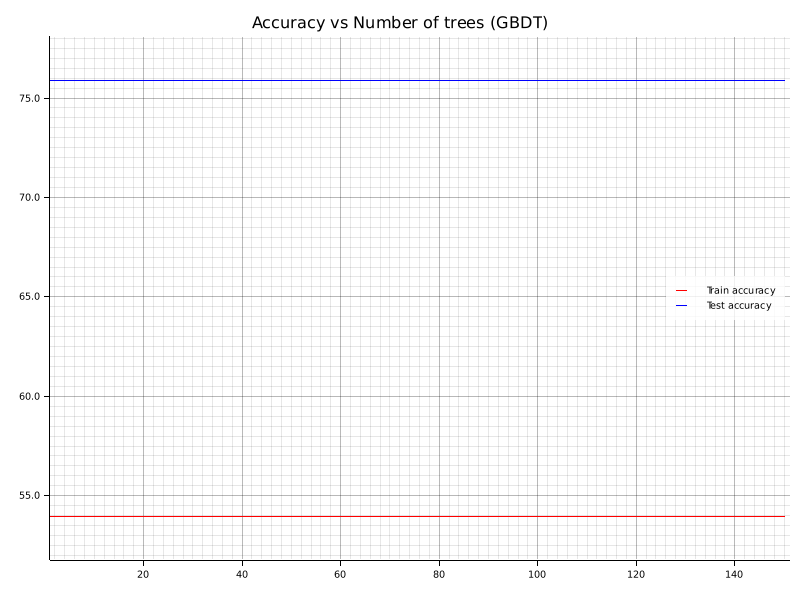
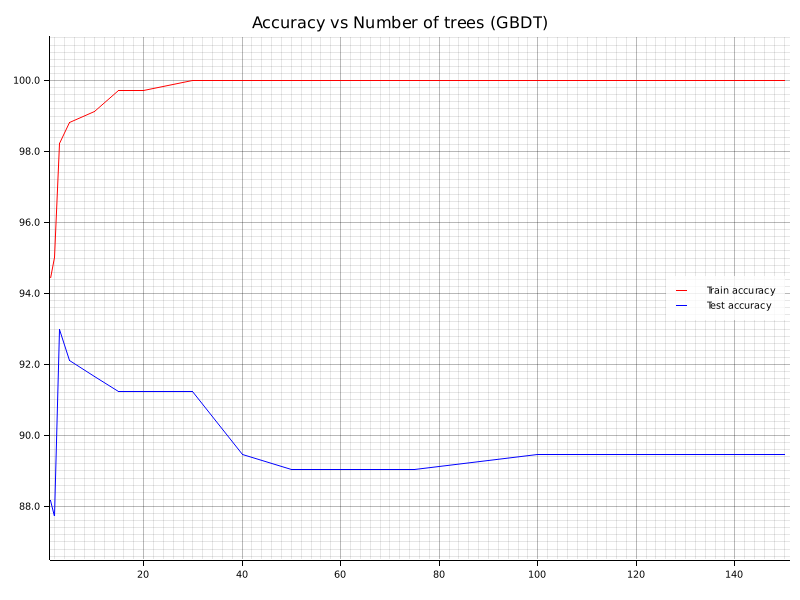
fix: swap back weights and lables

Changed region(s): [[0.0, 0.06, 1.0, 0.93]]

diff --git a/src/main.rs b/src/main.rs
@@ -460,7 +460,6 @@ fn explore_gbdt_accuracy(train_samples: &[Sample], test_samples: &[Sample]) {
     for &num_trees in &TREE_COUNTS {
         let mut config = Config::new();
         config.set_feature_size(train_samples[0].features.len());
-        config.set_max_depth(20);
         config.set_iterations(num_trees);
 
         let mut gbdt = GBDT::new(&config);
@@ -470,8 +469,8 @@ fn explore_gbdt_accuracy(train_samples: &[Sample], test_samples: &[Sample]) {
             .map(|sample| {
                 Data::new_training_data(
                     sample.features.map(|feature| feature as f32).to_vec(),
-                    sample.label as i32 as f32,
                     1.0,
+                    sample.label as i32 as f32,
                     None,
                 )
             })
